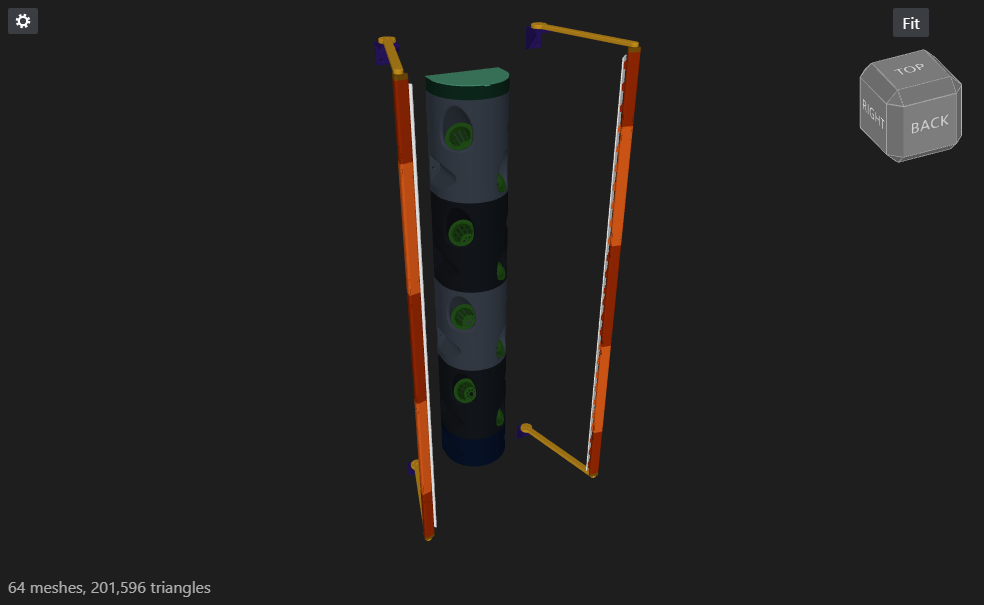
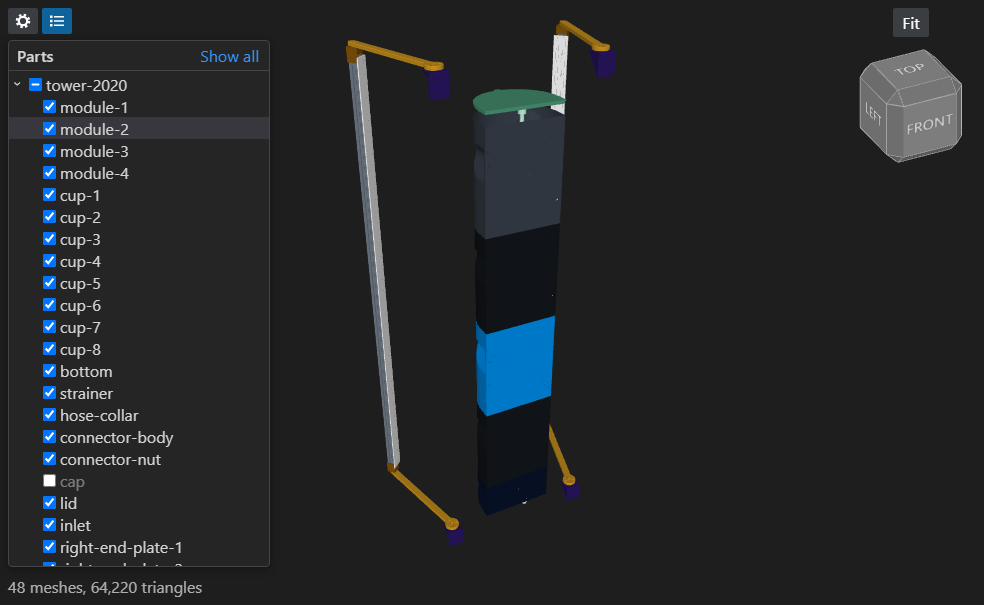
Show the parts panel in the README screenshot

diff --git a/README.md b/README.md
@@ -6,7 +6,7 @@ Open STEP, STL, 3MF and other 3D models in a VS Code tab instead of switching to
 
 Everything runs offline inside VS Code. Rendering and import come from [Online3DViewer](https://github.com/kovacsv/Online3DViewer).
 
-![A 3MF assembly open in the viewer, with the view cube in the top-right corner](docs/screenshot.png)
+![A STEP assembly open in the viewer, with the parts panel on the left and the view cube in the top-right corner](docs/screenshot.png)
 
 ## Install
 
